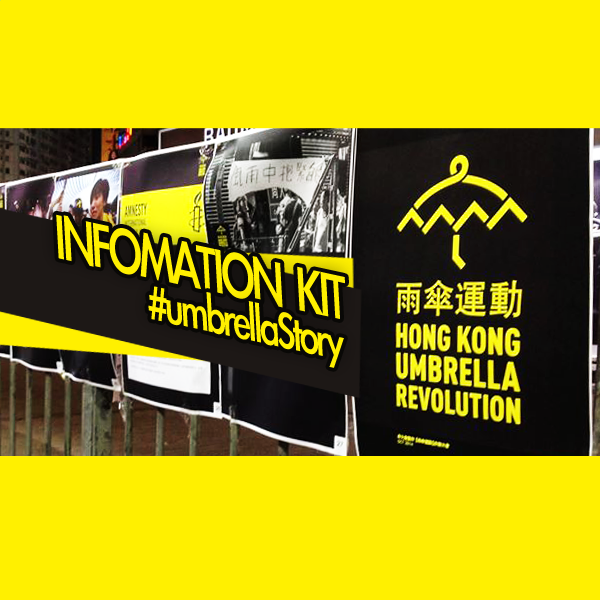
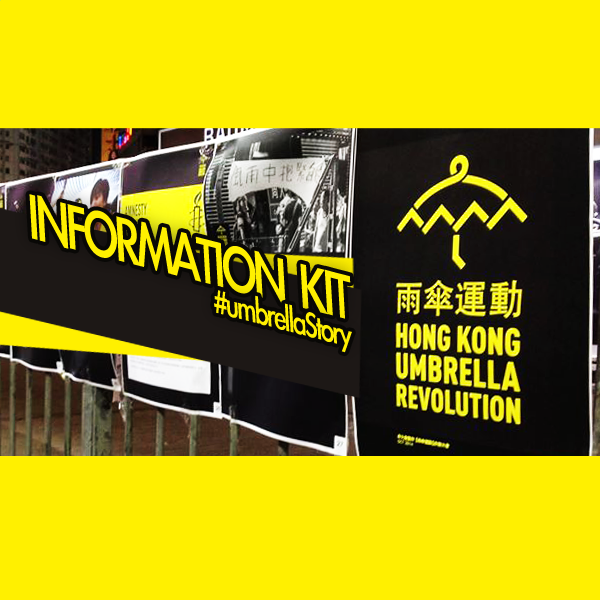
Fix spelling mistake on english og:image

Changed region(s): [[0.03, 0.3, 0.6, 0.63]]

diff --git a/meta/en_US_meta.php b/meta/en_US_meta.php
@@ -6,7 +6,7 @@
 <!-- <meta property="og:image" content="https://dfg63nb4d89j7.cloudfront.net/web/meta/og-thumb_en_US.png" />    
 <meta property="og:image:url" content="https://dfg63nb4d89j7.cloudfront.net/web/meta/og-thumb_en_US.png" />
  -->
-<meta property="og:image" content="<? echo $protocol . $_SERVER['HTTP_HOST']?>/img/og-thumb-3-en.png" />
+<meta property="og:image" content="<? echo $protocol . $_SERVER['HTTP_HOST']?>/img/og-thumb-3-en.png?20141011" />
  <meta property="og:image:type" content="image/png" />
 <!-- <meta property="og:image:width" content="1200" />
 <meta property="og:image:height" content="630" /> -->
